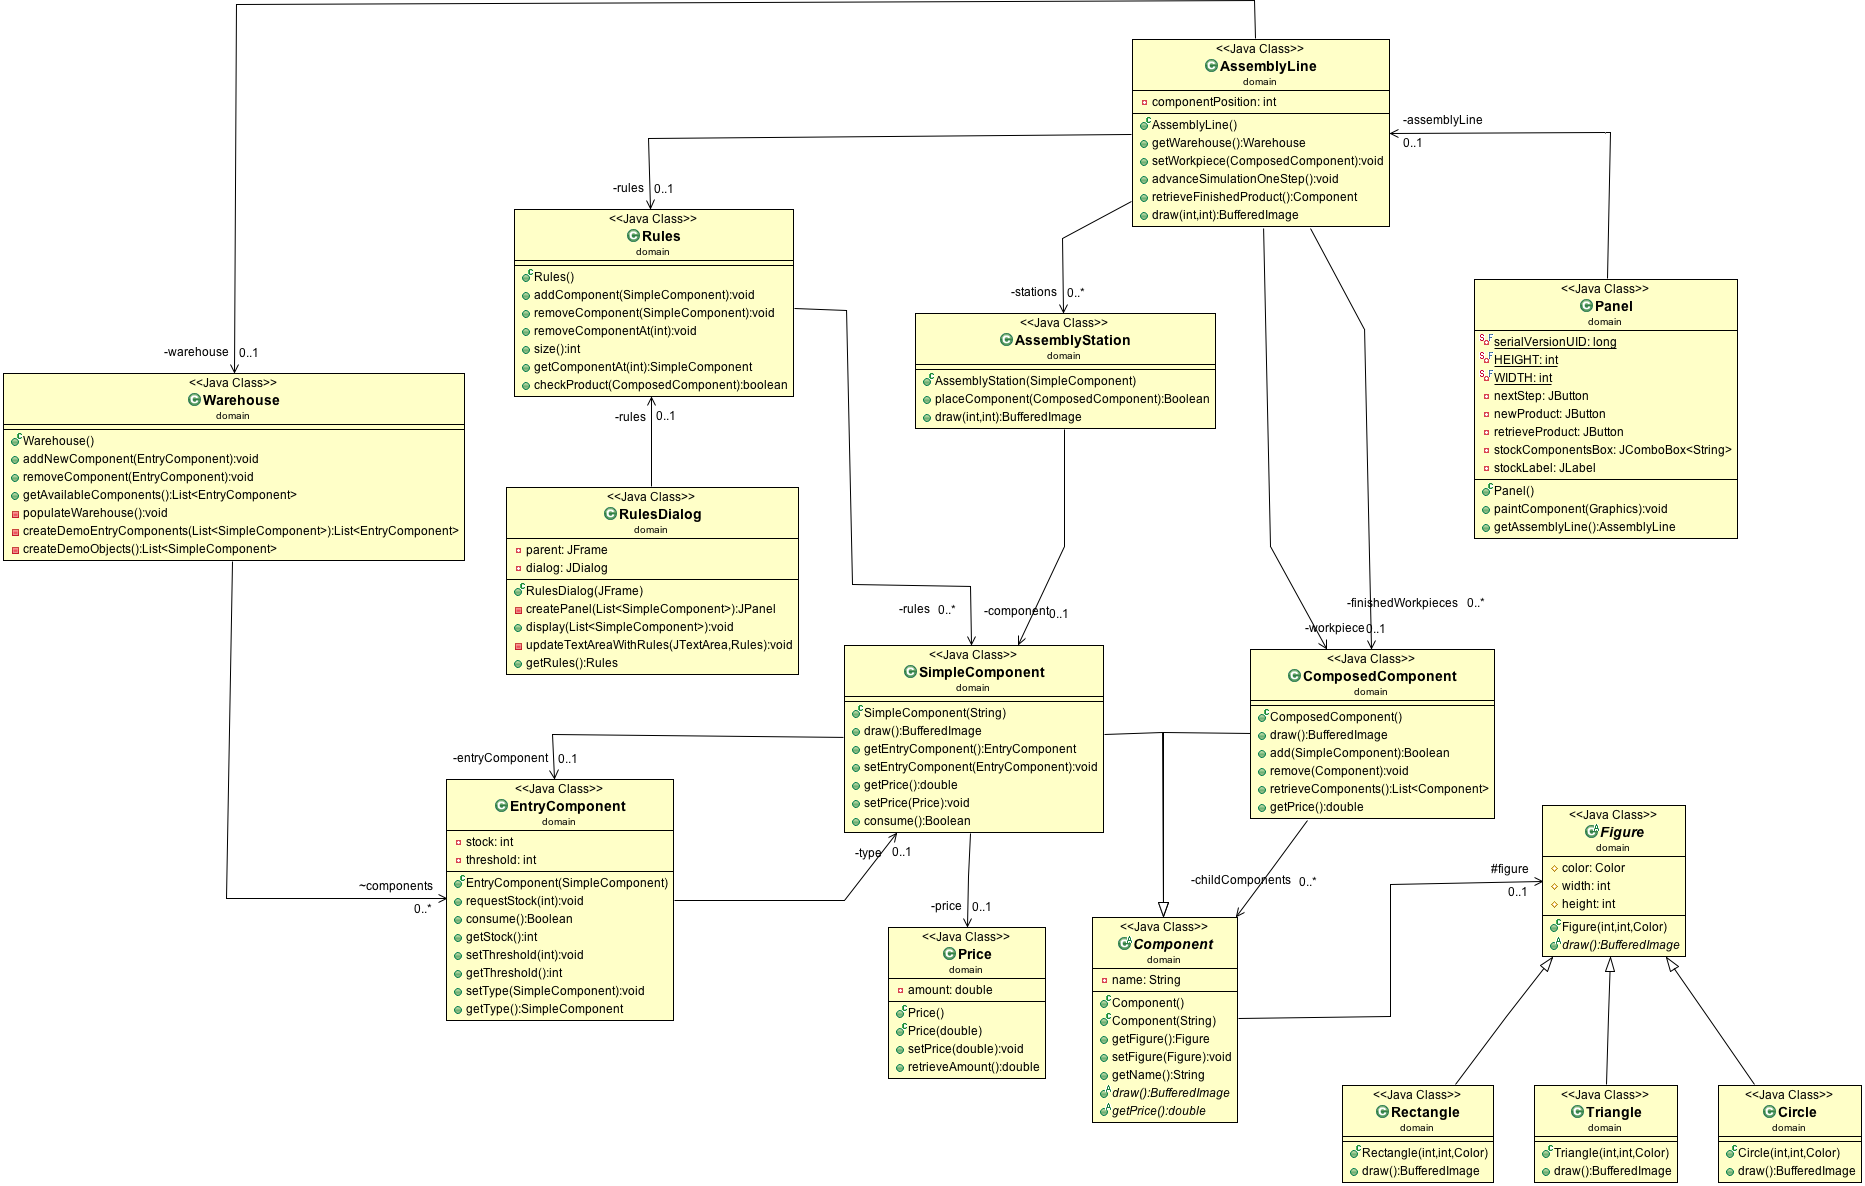
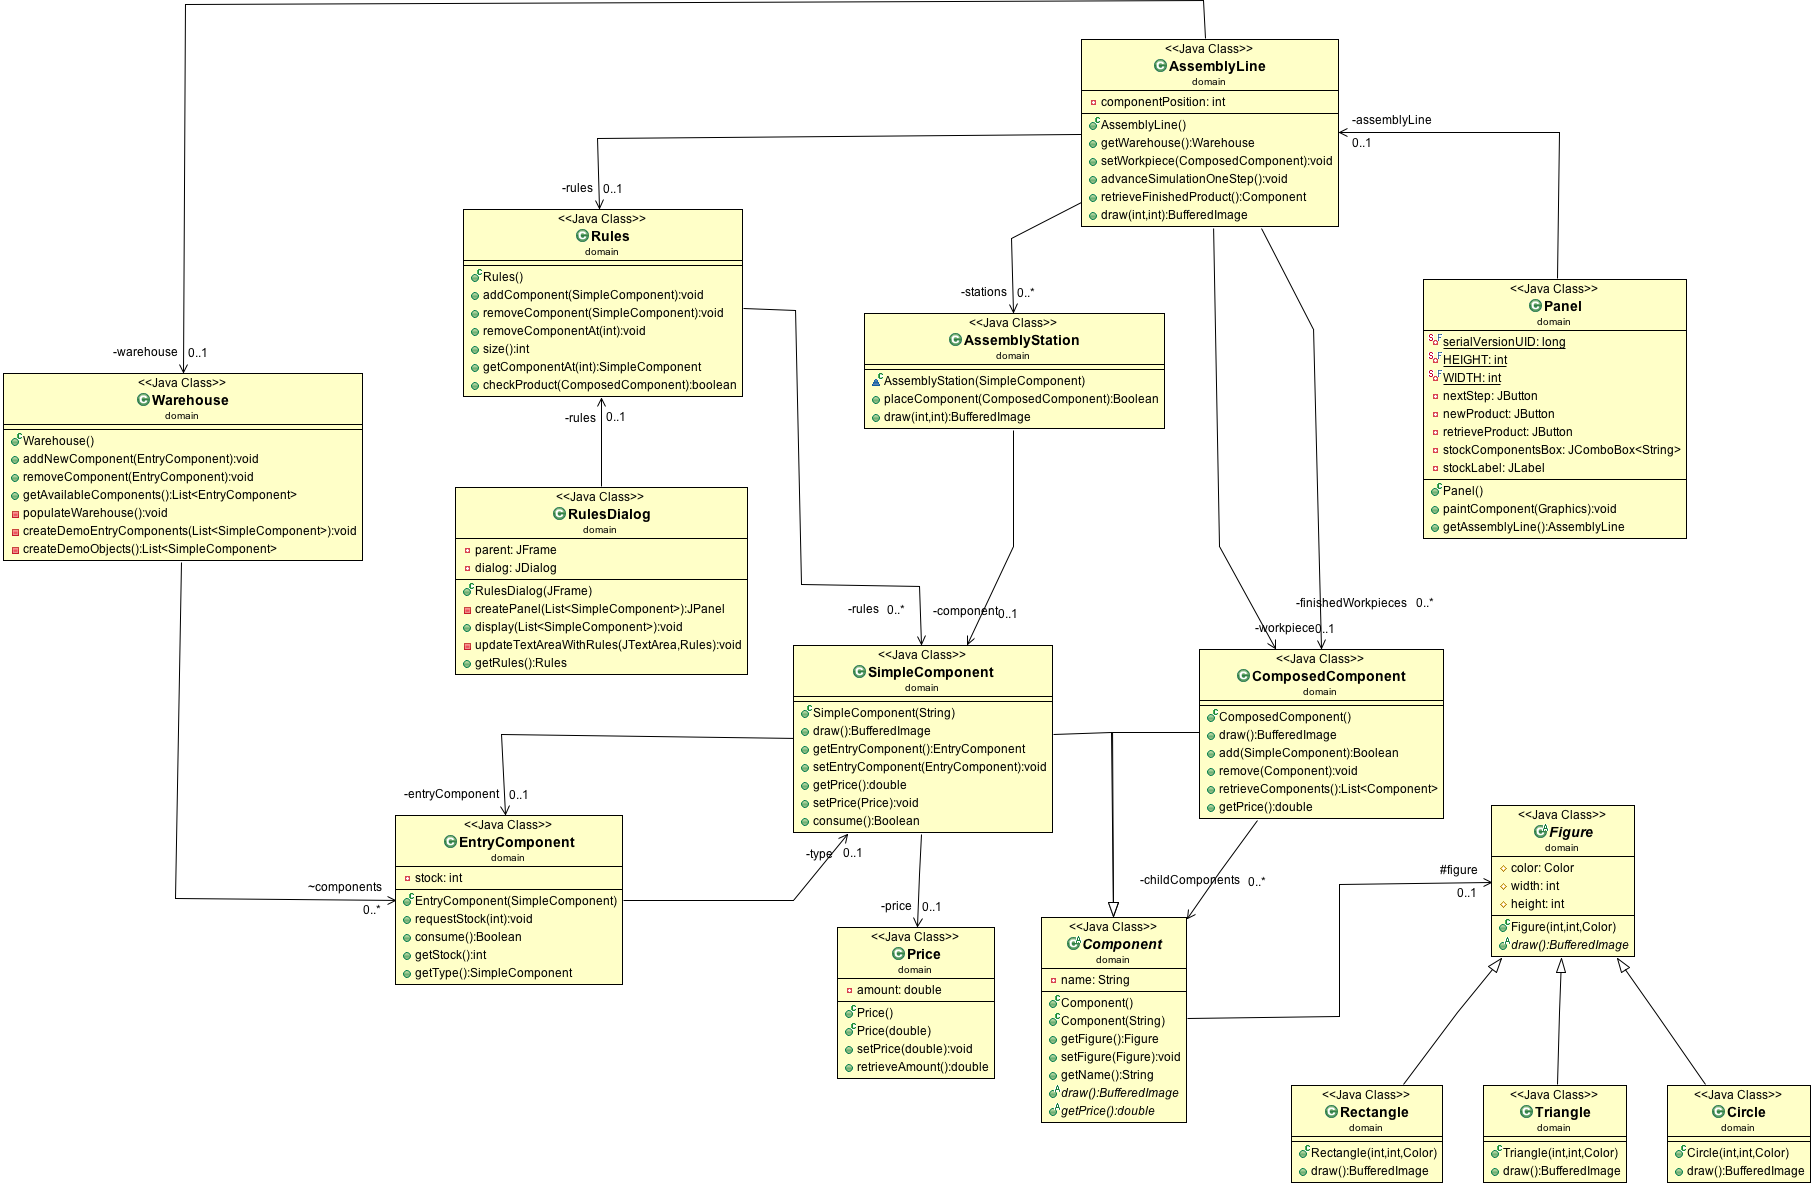
a little more final refactoring

diff --git a/AssemblyLine/src/domain/Warehouse.java b/AssemblyLine/src/domain/Warehouse.java
@@ -6,7 +6,7 @@ import java.util.List;
 
 public class Warehouse {
 	
-	List<EntryComponent> components;
+	private List<EntryComponent> components;
 	
 	public Warehouse() {
 		populateWarehouse();
@@ -25,18 +25,16 @@ public class Warehouse {
 	}
 	
 	private void populateWarehouse() {
-		components = createDemoEntryComponents(createDemoObjects());
+		createDemoEntryComponents(createDemoObjects());
 	}
 
-	private List<EntryComponent> createDemoEntryComponents(List<SimpleComponent> availableComponents) {
-		List<EntryComponent> list = new ArrayList<EntryComponent>();
+	private void createDemoEntryComponents(List<SimpleComponent> availableComponents) {
 		for (SimpleComponent component : availableComponents) {
 			EntryComponent entry = new EntryComponent(component);
 			entry.requestStock(5);
 			component.setEntryComponent(entry);
-			list.add(entry);
+			addNewComponent(entry);
 		}
-		return list;
 	}
 
 	private List<SimpleComponent> createDemoObjects() {

diff --git a/AssemblyLine/src/domain/EntryComponent.java b/AssemblyLine/src/domain/EntryComponent.java
@@ -3,7 +3,6 @@ package domain;
 public class EntryComponent {
 
 	private int stock;
-	private int threshold;
 	private SimpleComponent type;
 	
 	public EntryComponent(SimpleComponent type){
@@ -26,18 +25,6 @@ public class EntryComponent {
 	
 	public int getStock(){
 		return stock;
-	}
-	
-	public void setThreshold(int n){
-		this.threshold = n;
-	}
-	
-	public int getThreshold(){
-		return threshold;
-	}
-	
-	public void setType(SimpleComponent s){
-		this.type = s;
 	}
 	
 	public SimpleComponent getType(){
